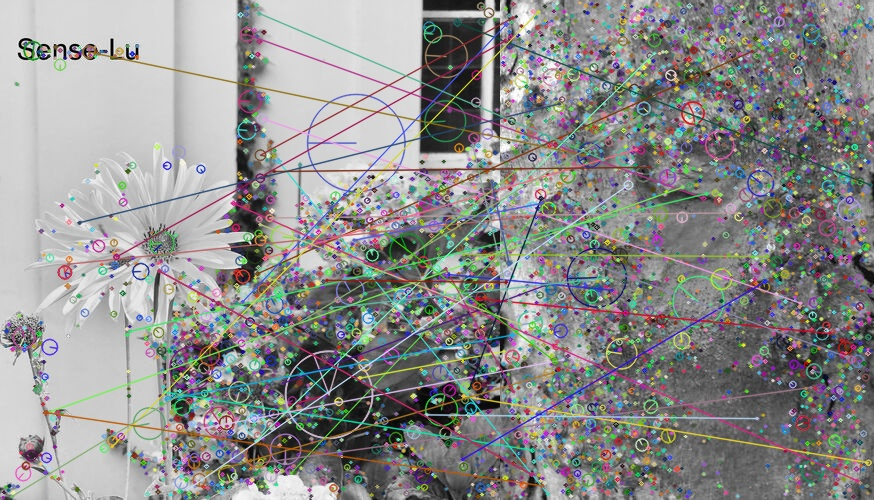
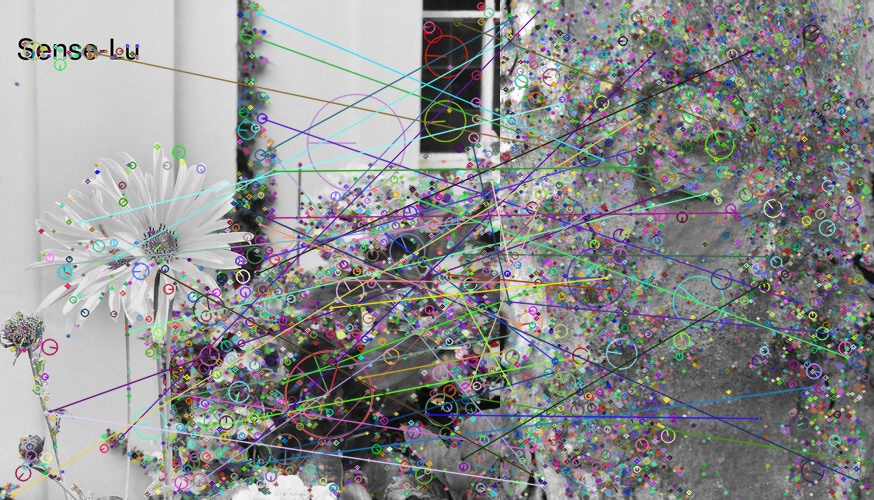
update teambuyilding

diff --git a/site/teambuilding/teambuilding.html b/site/teambuilding/teambuilding.html
@@ -47,9 +47,9 @@
         image_a.innerHTML += `<img style=\" max-height: 200px;   \" src=\"./images/final/a-${image_id}.jpg">`
         image_b.innerHTML += `<img style=\" width: 18%; position:fixed; right:50px; \" src=\"./images/final/a-${image_id}.jpg">`
         
-        if ( image_a.innerHTML.length > 3000){image_a.innerHTML = ''} 
+        if ( image_a.innerHTML.length > 20000){image_a.innerHTML = ''} 
         
-        setTimeout(loadImage, Math.floor(Math.random()*400))  
+        setTimeout(loadImage, Math.floor(Math.random()*50))  
     };
     
 

diff --git a/site/teambuilding/images/prep.py b/site/teambuilding/images/prep.py
@@ -78,7 +78,7 @@ for i in range(0,amount):
 
             print(len(matches))
 
-            if len(matches) > 600:
+            if len(matches) > 900:
                 img3 = cv2.drawMatches(img1, k_1, img2, k_2, matches[:50], img2, flags=4)
                 # cv2.imshow('Output', img3)
 
